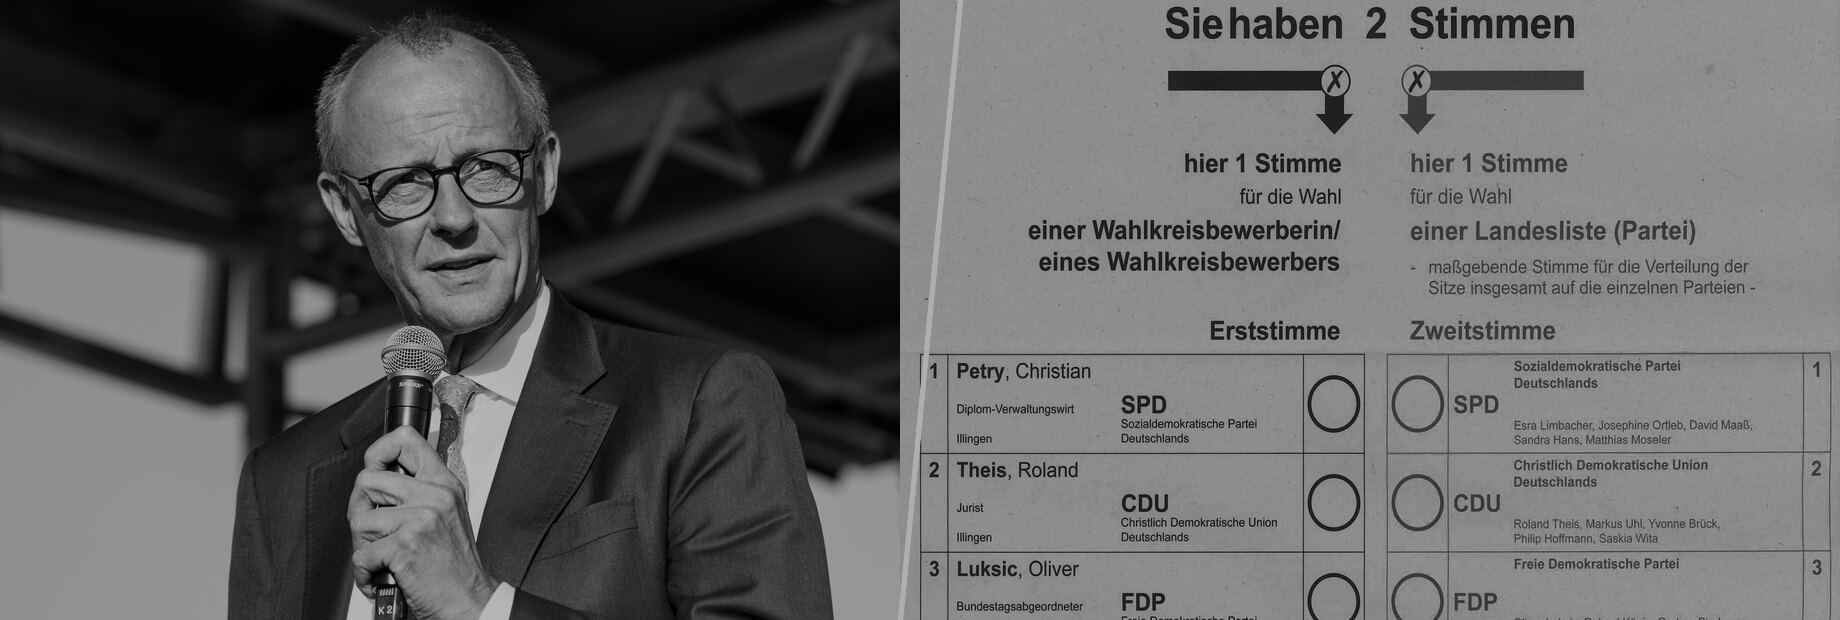
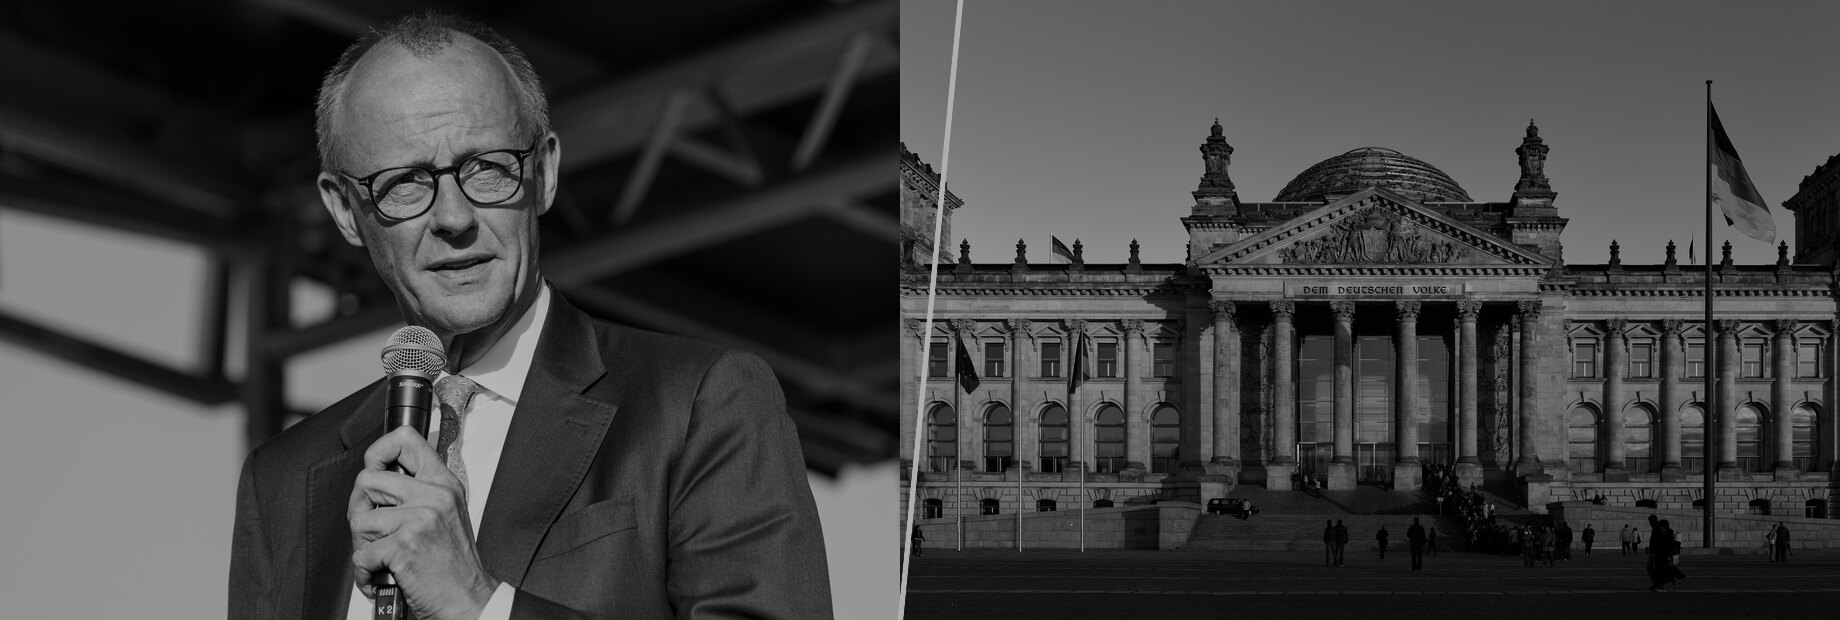
Union post: header Merz (Erfurt 2024) + Reichstag west facade

diff --git a/_pages/union-verluste-2026-de.md b/_pages/union-verluste-2026-de.md
@@ -24,7 +24,7 @@ Entwurf: Dieser Beitrag ist noch nicht veröffentlicht. Alle Texte sind Platzhal
 
 <figure class="ltw-header ltw-hero">
 
-<img src="/images/union26_header.jpg" style="object-position: left center" alt="Schwarz-weiß-Montage: links Friedrich Merz mit Mikrofon bei einem Wahlkampfauftritt in Erfurt im August 2024, rechts der Kopf eines Stimmzettels zur Bundestagswahl 2025 mit Erst- und Zweitstimme"/>
+<img src="/images/union26_header.jpg" style="object-position: left center" alt="Schwarz-weiß-Montage: links Friedrich Merz mit Mikrofon bei einem Wahlkampfauftritt in Erfurt im August 2024, rechts die Westfassade des Reichstagsgebäudes in Berlin mit der Inschrift „Dem Deutschen Volke“"/>
 
 <div class="ltw-hero-shade"></div>
 
@@ -38,7 +38,7 @@ Wohin die Union ihre Wähler verliert –<br>und wen sie zurückholen kann
 
 <p class="ltw-photo-credit">
 
-Fotos: links <a href="https://commons.wikimedia.org/wiki/File:2024-08-21_Event,_CDU,_Wahlkampf_mit_Friedrich_Merz_in_Erfurt_2024_STP_3111_by_Stepro.jpg">Steffen Prößdorf</a> (Friedrich Merz beim Wahlkampfauftritt in Erfurt, 21. August 2024), rechts <a href="https://commons.wikimedia.org/wiki/File:BTW_2025_Stimmzettel_WK_298.jpg">Simon Mannweiler</a> (Stimmzettel zur Bundestagswahl 2025, Wahlkreis 298), beide Wikimedia Commons, <a href="https://creativecommons.org/licenses/by-sa/4.0/deed.de">CC BY-SA 4.0</a>; Montage, zugeschnitten, schwarz-weiß
+Fotos: links <a href="https://commons.wikimedia.org/wiki/File:2024-08-21_Event,_CDU,_Wahlkampf_mit_Friedrich_Merz_in_Erfurt_2024_STP_3111_by_Stepro.jpg">Steffen Prößdorf</a> (Friedrich Merz beim Wahlkampfauftritt in Erfurt, 21. August 2024), rechts <a href="https://commons.wikimedia.org/wiki/File:Reichstag_building_Berlin_view_from_west_before_sunset.jpg">Jürgen Matern</a> (Reichstagsgebäude, Westfassade), beide Wikimedia Commons, <a href="https://creativecommons.org/licenses/by-sa/4.0/deed.de">CC BY-SA 4.0</a> bzw. <a href="https://creativecommons.org/licenses/by-sa/3.0/deed.de">CC BY-SA 3.0</a>; Montage, zugeschnitten, schwarz-weiß
 
 </p>
 
